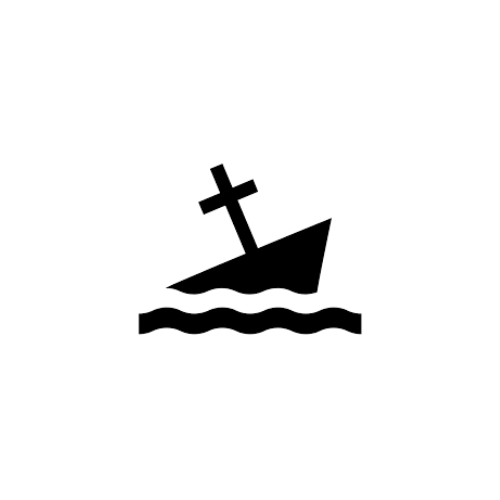
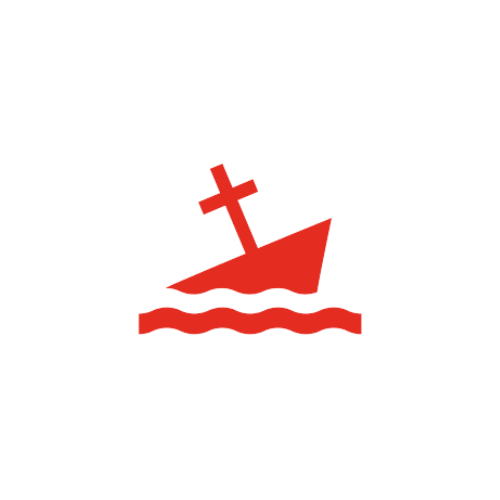
all messaging is in place for game, ships now red, reset button turned off because not working yet

Changed region(s): [[0.27, 0.33, 0.75, 0.69]]

diff --git a/js/app.js b/js/app.js
@@ -300,6 +300,7 @@ const updateLeftBoard = () => {
                         cellEl.appendChild(wreck); 
                     } else {
                         cellEl.classList.add('not-ship');
+                        cellEl.textContent = '';
                     };
                  };
         };
@@ -331,6 +332,7 @@ const updateRightBoard = () => {
                         cellEl.appendChild(wreck); 
                     } else {
                         cellEl.classList.add('not-ship');
+                        cellEl.textContent = '';
                     };
                  };
         };
@@ -363,19 +365,23 @@ const handleLeftClick = (event) => {
      else if (turn === 'p2') {
      if (leftGrid[cellRow][cellCol] === 0) {
         leftGrid[cellRow][cellCol] = 3;
+        mainMessegeElement.textContent = ``;
+        p2MessageElement.textContent = 'Miss!'
         render()
-        switchPlayer();
         p1ShipSunk();
         p2ShipSunk();
         hitTally();
+        switchPlayer();
         winningShot();
      } else if (leftGrid[cellRow][cellCol] === 1) {
         leftGrid[cellRow][cellCol] = 2;
+        mainMessegeElement.textContent = ``;
+        p2MessageElement.textContent = 'Hit!'
         render();
-        switchPlayer();
         p1ShipSunk();
         p2ShipSunk();
         hitTally();
+        switchPlayer();
         winningShot();
      } else {return};
 };
@@ -389,21 +395,25 @@ const handleRightClick = (event) => {
      else if (turn === 'p1') {
      if (rightGrid[cellRow][cellCol] === 0) {
         rightGrid[cellRow][cellCol] = 3;
+        mainMessegeElement.textContent = ``;
+        p1MessageElement.textContent = 'Miss!'
         render();
-        switchPlayer();
         p1ShipSunk();
         p2ShipSunk();
         hitTally();
+        switchPlayer();
         winningShot();
         // console.log(leftGrid);
         // console.log(rightGrid);
      } else if (rightGrid[cellRow][cellCol] === 1) {
         rightGrid[cellRow][cellCol] = 2;
+        mainMessegeElement.textContent = ``;
+        p1MessageElement.textContent = 'Hit!'
         render();
-        switchPlayer();
         p1ShipSunk();
         p2ShipSunk();
         hitTally();
+        switchPlayer();
         winningShot();
      } else {return};
 };
@@ -439,9 +449,20 @@ const checkSunkSquares = (boatsunk, boatarr, grid, boat, playershipssunk, gridar
                                          };
                                 grid[firstDigit][secondDigit] = 4;
                                 });
-                        console.log(`${boat} sunk!`);
-                        playershipssunk++;
-                        console.log(playershipssunk);
+                                if (turn === 'p1') {
+                                        p2ShipsSunk += 1;
+                                        // console.log('there are', p2ShipsSunk)
+                                        p1MessageElement.textContent = `You sunk Player 2's ${boat}!`;
+                                        // console.log(`P2 ${boat} sunk!`);
+                                } else if (turn === 'p2') {
+                                        p1ShipsSunk += 1;
+                                        // console.log('there are', p2ShipsSunk)
+                                        p2MessageElement.textContent = `You sunk Player 1's ${boat}!`;
+                                        // console.log(`P2 ${boat} sunk!`);
+                                };
+                        // console.log('there are', p1ShipsSunk)
+                        // console.log('there are', p2ShipsSunk)
+                        // } else {p2MessageElement.textcontent = `P1's ${boat} sunk!`}
                         render();
                         };
                 };
@@ -475,7 +496,6 @@ const p2ShipSunk = () => {
 };
 
 const init = () => {
-        createGrid();
         leftGrid =     [[0,0,0,0,0,0,0,0,0,0],
                         [0,0,0,0,0,0,0,0,0,0],
                         [0,0,0,0,0,0,0,0,0,0],
@@ -504,15 +524,16 @@ const init = () => {
         p2ShipsSunk = 0;
         turn = 'p1';
         winner = false;
-        columnElements.forEach(col => {col.classList.remove('hidden')})
-        leftCellEls = document.querySelectorAll('#left-grid div');
-        rightCellEls = document.querySelectorAll('#right-grid div');
+        mainMessegeElement.textContent = `Player 1 take your turn.`
         flatLeftGrid = leftGrid.flat();
         flatRightGrid = rightGrid.flat();
-        //NEED TO WRITE THESE INTIAL MESSAGES        
-        render()
+        leftCellEls = document.querySelectorAll('#left-grid div');
+        rightCellEls = document.querySelectorAll('#right-grid div');
+        render();
         rightShipEls = document.querySelectorAll('.right-cell.ship');
-         rightShipEls.forEach(cell => {
+        columnElements.forEach(col => {col.classList.remove('hidden')})
+        //NEED TO WRITE THESE INTIAL MESSAGES        
+        rightShipEls.forEach(cell => {
                 cell.classList.add('covered-board')})
         leftCellEls.forEach(cell => {cell.addEventListener('click', handleLeftClick)
         });
@@ -520,11 +541,42 @@ const init = () => {
         });
 };
 
+// const createDomElements = () => {
+         
+// };
+
 const gameActivate = () => {
         if (gameActive === false) {
-                return} else {init();
+                return} else {
+                createGrid();
+                // createDomElements();
+                init();
+                render();
                 }
 };
+
+// const resetGame = () => {
+//          leftGrid =     [[0,0,0,0,0,0,0,0,0,0],
+//                         [0,0,0,0,0,0,0,0,0,0],
+//                         [0,0,0,0,0,0,0,0,0,0],
+//                         [0,0,1,0,1,1,0,0,0,0],
+//                         [0,0,1,0,0,0,0,1,0,1],
+//                         [0,0,1,0,0,0,0,1,0,1],
+//                         [0,0,1,0,0,0,0,1,0,1],
+//                         [0,0,1,0,0,0,0,0,0,1],
+//                         [0,0,0,0,0,0,0,0,0,0],
+//                         [0,0,0,1,1,1,0,0,0,0]]
+//         rightGrid =    [[0,1,0,0,0,0,0,0,0,0],
+//                         [0,1,0,0,0,0,0,0,0,0],
+//                         [0,0,0,0,0,0,0,0,0,0],
+//                         [1,0,0,0,0,0,0,0,0,0],
+//                         [1,0,0,0,0,0,0,0,0,0],
+//                         [1,0,0,0,0,1,1,1,1,1],
+//                         [0,0,0,0,0,0,0,0,0,0],
+//                         [1,1,1,1,0,0,0,1,0,0],
+//                         [0,0,0,0,0,0,0,1,0,0],
+//                         [0,0,0,0,0,0,0,1,0,0]]
+// };
 
 
 /*----------------------------- Event Listeners -----------------------------*/
@@ -540,6 +592,9 @@ p1ButtonElement.addEventListener('click', (event) => {
         cell.classList.remove('covered-board')})
         p1ButtonElement.classList.add('hidden');
         turn = 'p1';
+        p1MessageElement.textContent = '';
+        p2MessageElement.textContent = '';
+        mainMessegeElement.textContent = `Player 1 take your turn.`
         };
 });
 
@@ -550,6 +605,9 @@ p2ButtonElement.addEventListener('click', (event) => {
         cell.classList.remove('covered-board')})
         p2ButtonElement.classList.add('hidden');
         turn = 'p2';
+        p1MessageElement.textContent = '';
+        p2MessageElement.textContent = '';
+        mainMessegeElement.textContent = `Player 2 take your turn.`
         };
 });
 
@@ -559,6 +617,12 @@ startButtonElement.addEventListener('click', (event) => {
         gameActivate();
         startButtonElement.classList.add('hidden');
 });
+
+// resetButtonElement.addEventListener('click', (event) => {
+//         init();
+//         resetGame();
+//         render();
+// });
 
 /*------------------------------- Page Load ------------------------------*/
 

diff --git a/index.html b/index.html
@@ -12,16 +12,16 @@
 </head>
 <body>
     <h1 id="main-title">Battleships</h1>
-    <p class='messages' id="main-messages">Message board</p>
+    <p class='messages' id="main-messages">Get ready to play!</p>
     <div id="grid-wrapper">
         <div class ="column hidden" id="left-grid-wrapper">
-            <h2 class="grid-title" id="left-grid-title">Player 1 gameboard</h2>
+            <h2 class="grid-title" id="left-grid-title">Player 1</h2>
             <p class="messages" id="p1-messages"></p>
             <div class="grid" id="left-grid"></div>
         </div>
         <div class ="column hidden" id="right-grid-wrapper">
-            <h2 class="grid-title" id="right-grid-title">Player 2 gameboard</h2>
-            <p class="'messages" id="p2-messages"></p>
+            <h2 class="grid-title" id="right-grid-title">Player 2</h2>
+            <p class="messages" id="p2-messages"></p>
             <div class="grid" id ="right-grid"></div>
         </div>
     </div>

diff --git a/css/styles.css b/css/styles.css
@@ -1,7 +1,12 @@
 
 body {
     min-height: 90vh;
+    justify-content: center;
+    text-align: center;
     margin: 0;
+}
+.messages {
+    height: 15px;
 }
 
 .bbh-bartle-regular {
